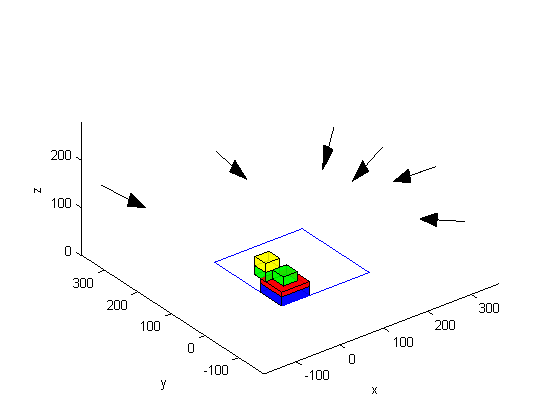
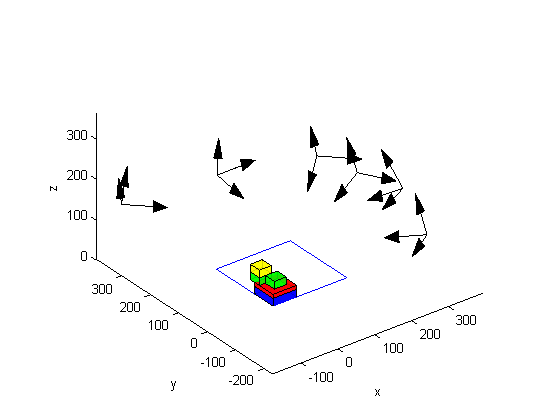
CameraCalibration: Improving R
Finally fixed R calculations to produce nearly correct output. Updated
CART and Camera RT plots for image sets 1 and 2. Started on
"DepthEstimation.m" but not complete.

diff --git a/CameraCalibration/CameraCalibration.m b/CameraCalibration/CameraCalibration.m
@@ -47,8 +47,10 @@ wikiT = inv(B) * C(:,end); % since B = A*R
 
 % wikiT is the position of 3D origin (0,0,0) with respect to the camera's
 % coordinate system. We reverse it here to find the camera's position with
-% respect to the global 3D coordinate system.
+% respect to the global 3D coordinate system. The same reasoning is applied
+% to wikiR.
 wikiT = -wikiT;
+wikiR = wikiR';
 
 
 %% Switch some angles to make it correct
@@ -58,21 +60,24 @@ wikiT = -wikiT;
 
 % The intrinsic properties matrix, A, is not the same across images. I
 % suspect that RQ Decomposition is giving us a rotation matrix with one or
-% more of the rotations negated. Fortunately, for the data set I am using,
-% RQ Decomposition seems to consistently negate the X Rotation.
+% more of the rotations negated. Here, we attempt to reverse one or more of
+% the axis of rotations in an attempt to get the correct results.
 
-% decompose the rotation matrix into X,Y,Z rotations
-thetaX = atan2(wikiR(3,2),wikiR(3,3));
-thetaY = atan2(-wikiR(3,1),sqrt(wikiR(3,2)^2+wikiR(3,3)^2));
-thetaZ = atan2(wikiR(2,1),wikiR(1,1));
+if(sign(wikiA(1,1)) > 0)
+    
+    % decompose the rotation matrix into X,Y,Z rotations
+    thetaX = atan2(wikiR(3,2),wikiR(3,3));
+    thetaY = atan2(-wikiR(3,1),sqrt(wikiR(3,2)^2+wikiR(3,3)^2));
+    thetaZ = atan2(wikiR(2,1),wikiR(1,1));
+    
+    % choose which rotation to negate
+    thetaX = pi-thetaX;
+    thetaY = pi-thetaY;
+    % thetaZ = -thetaZ;
 
-% choose which rotation to negate
-thetaX = -thetaX;
-% thetaY = -thetaY;
-% thetaZ = -thetaZ;
-
-% recombine the rotation matrices
-wikiR = Rz(thetaZ)' * Ry(thetaY)' * Rx(thetaX)';
+    % recombine the rotation matrices
+    wikiR = Rz(thetaZ)' * Ry(thetaY)' * Rx(thetaX)';
+end
 
 
 %% The graveyard of test code

diff --git a/CameraCalibration/DepthEstimation.m b/CameraCalibration/DepthEstimation.m
@@ -1,0 +1,26 @@
+function [ output_args ] = DepthEstimation( C, data )
+%DEPTHESTIMATION Summary of this function goes here
+%   C1      Camera Calibration Matrices (3x4xN)
+%   data    Corresponding points between images (2x1xN)
+
+%% Check for errors
+[~,~,numCameras] = size(C);
+[~,~,numData] = size(data);
+
+if numCameras ~= numData
+    error('C and data need to have the same 3rd dimension.');
+end
+
+if(numCameras < 2)
+    error('Need at least 2 cameras to calculate.');
+end
+
+
+%% Set up a linear system of equations for solving
+
+
+
+
+
+end
+

diff --git a/CameraCalibration/PlotCamerasInScene.m b/CameraCalibration/PlotCamerasInScene.m
@@ -38,7 +38,7 @@ for i = 1:n
     camera(:,:,3) = [0 0 0 1;   0    0   vlen  1]';
     
     % for each unit vector
-    for j = 3:3
+    for j = 1:3
         % rotate and translate
         camera(:,:,j) = translation(:,:,i)*rotation(:,:,i)*camera(:,:,j);
         % normalize

diff --git a/CameraCalibration/Main.m b/CameraCalibration/Main.m
@@ -11,7 +11,7 @@ clear all
 %% set options
 
 % select image set 1 or 2
-set = '2';
+set = '1';
 
 % set to 1 to see test points on image plot
 errorCheck = 0;
